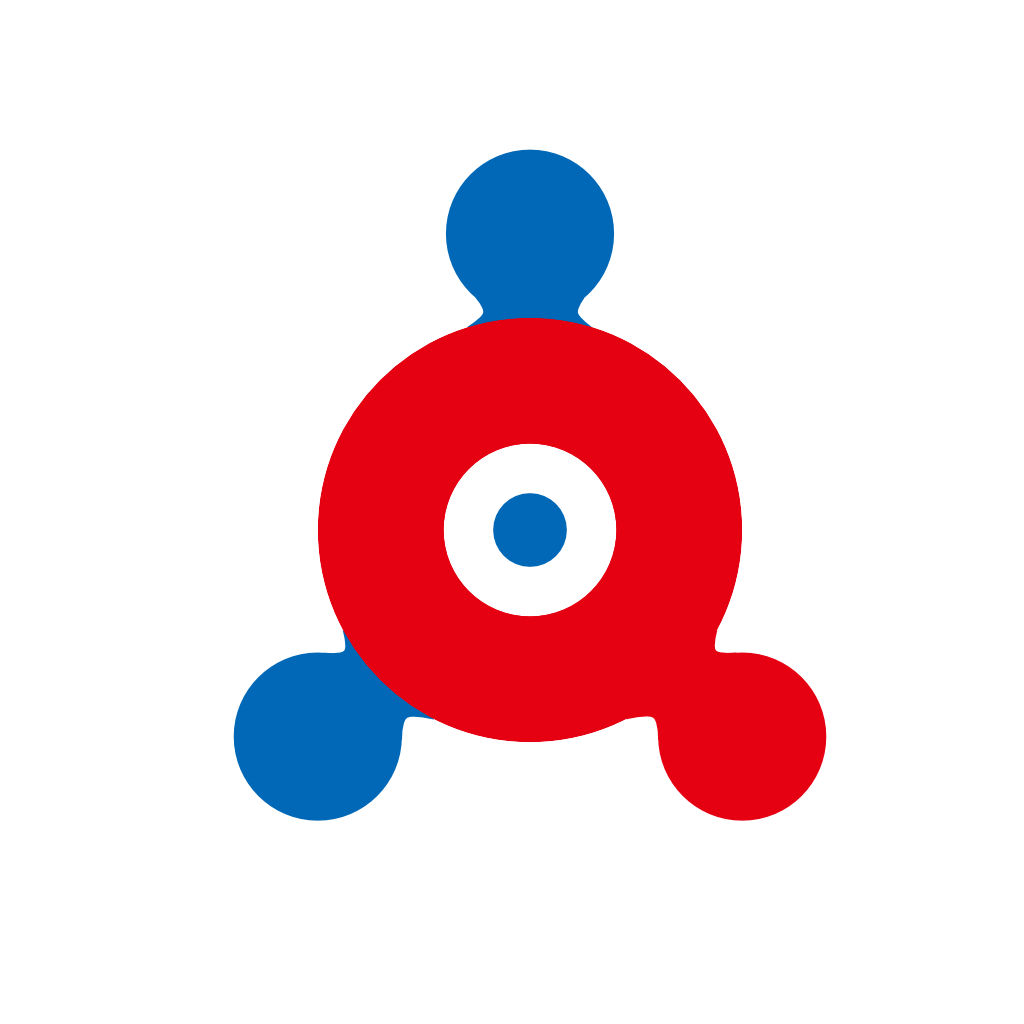
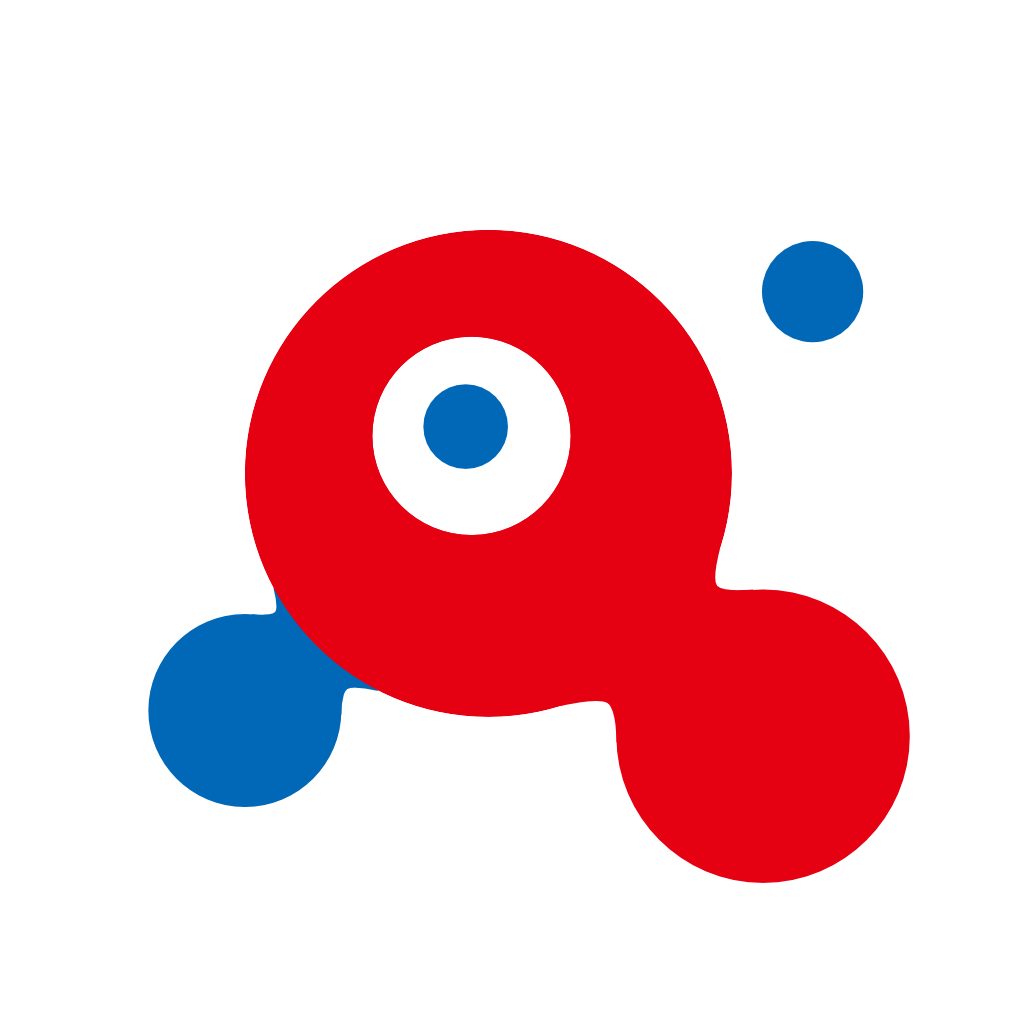
🛠 実装 ( WIP )

Changed region(s): [[0.125, 0.125, 0.9062, 0.875], [0.7188, 0.2188, 0.8438, 0.3438]]

diff --git a/index.html b/index.html
@@ -2,7 +2,7 @@
 <!--
     This file is genereted by build.js. このファイルは build.js によって生成されました。
     build options: ../build.json all
-    build at: Tue Jan 13 2026 20:47:00 GMT+0900 (日本標準時)
+    build at: Wed Jan 14 2026 10:20:20 GMT+0900 (日本標準時)
     repository: https://github.com/wraith13/myaku-myaku-sama/
 -->
 <!-- license:
@@ -329,8 +329,8 @@ button:focus
 </div>
 <script type="text/javascript">
 const build = {
-    at: "Tue Jan 13 2026 20:47:00 GMT+0900 (日本標準時)",
-    tick: 1768304820505
+    at: "Wed Jan 14 2026 10:20:20 GMT+0900 (日本標準時)",
+    tick: 1768353620084
 };
 const evilCommonjsConfig = {
     "log": {
@@ -2118,6 +2118,27 @@ define("script/model", ["require", "exports", "resource/config"], function (requ
             return total / samples;
         };
         ;
+        Model.addPoints = function (a, b) {
+            return ({
+                x: a.x + b.x,
+                y: a.y + b.y,
+            });
+        };
+        Model.subPoints = function (a, b) {
+            return ({
+                x: a.x - b.x,
+                y: a.y - b.y,
+            });
+        };
+        Model.mulPoint = function (a, b) {
+            return ({
+                x: a.x * b,
+                y: a.y * b,
+            });
+        };
+        Model.averagePoints = function (points) {
+            return Model.mulPoint(points.reduce(Model.addPoints, { x: 0, y: 0, }), 1 / points.length);
+        };
         ;
         ;
         ;
@@ -2798,6 +2819,9 @@ define("script/render", ["require", "exports", "script/model", "script/ui", "res
             if (data.fusionLimit < data.distance) {
                 return "none";
             }
+            if (data.wireLimit < data.distance) {
+                return "wired";
+            }
             if (data.sumRadius < data.distance) {
                 return "near";
             }
@@ -2806,7 +2830,8 @@ define("script/render", ["require", "exports", "script/model", "script/ui", "res
             }
             return "inclusion";
         };
-        var fusionLimitRate = 3;
+        var fusionLimitRate = 3.5;
+        var wireLimitRate = 0.7;
         var minCurveAngleRate = 1.0;
         var drawFusionPath = function (circles, color) {
             for (var i = 0; i < circles.length; i++) {
@@ -2817,11 +2842,12 @@ define("script/render", ["require", "exports", "script/model", "script/ui", "res
                     var minRadius = Math.min(a.radius, b.radius);
                     var maxRadius = Math.min(a.radius, b.radius);
                     var fusionLimit = sumRadius + Math.min(minRadius * fusionLimitRate, maxRadius);
+                    var wireLimit = sumRadius + (fusionLimit - sumRadius) * wireLimitRate;
                     var dx = b.x - a.x;
                     var dy = b.y - a.y;
                     var angle = Math.atan2(dy, dx);
                     var distance = Math.hypot(dx, dy);
-                    var fusionStatus = getFusionStatus({ sumRadius: sumRadius, minRadius: minRadius, fusionLimit: fusionLimit, distance: distance, });
+                    var fusionStatus = getFusionStatus({ sumRadius: sumRadius, minRadius: minRadius, wireLimit: wireLimit, fusionLimit: fusionLimit, distance: distance, });
                     if (hasFusionPath(fusionStatus)) {
                         var contactAngle = isContacted(fusionStatus) ? Math.acos(distance / sumRadius) : null;
                         var curveAngleRate = minCurveAngleRate *
@@ -2906,10 +2932,36 @@ define("script/render", ["require", "exports", "script/model", "script/ui", "res
                         context.beginPath();
                         // 上側ベジェ: tp1 -> cp -> tp3 (cpは中点+オフセットで曲げ)
                         context.moveTo(tp1.x, tp1.y);
-                        context.quadraticCurveTo(cp1.x, cp1.y, tp4.x, tp4.y); // またはbezierCurveToでcubic
-                        // 下側ベジェ: tp2 -> cp -> tp4
-                        context.lineTo(tp3.x, tp3.y);
-                        context.quadraticCurveTo(cp2.x, cp2.y, tp2.x, tp2.y);
+                        var wireLength = distance - wireLimit;
+                        if (0 < wireLength) // == "wired" === fusionStatus
+                         {
+                            var wireLengthRate = wireLength / Math.hypot(tp1.x - tp4.x, tp1.y - tp4.y);
+                            var wireWidthRate = 1 - (wireLength / (fusionLimit - wireLimit));
+                            var mp0a = model_2.Model.averagePoints([model_2.Model.mulPoint(model_2.Model.averagePoints([tp1, tp4]), wireWidthRate), model_2.Model.mulPoint(cp0, 2 - wireWidthRate)]);
+                            var mp1 = model_2.Model.addPoints(mp0a, model_2.Model.mulPoint(model_2.Model.subPoints(tp1, tp4), wireLengthRate * 0.5));
+                            var cxp1 = model_2.Model.addPoints(mp0a, model_2.Model.mulPoint(model_2.Model.subPoints(tp1, tp4), (2 - wireWidthRate) / 4));
+                            var cxp2 = model_2.Model.addPoints(mp0a, model_2.Model.mulPoint(model_2.Model.subPoints(tp4, tp1), (2 - wireWidthRate) / 4));
+                            var mp2 = model_2.Model.addPoints(mp0a, model_2.Model.mulPoint(model_2.Model.subPoints(tp4, tp1), wireLengthRate * 0.5));
+                            context.quadraticCurveTo(cxp1.x, cxp1.y, mp1.x, mp1.y);
+                            context.lineTo(mp2.x, mp2.y);
+                            context.quadraticCurveTo(cxp2.x, cxp2.y, tp4.x, tp4.y);
+                            context.lineTo(tp3.x, tp3.y);
+                            //const wireRate = wireLength / Math.hypot(tp3.x -tp2.x, tp3.y -tp2.y);
+                            var mp0b = model_2.Model.averagePoints([model_2.Model.mulPoint(model_2.Model.averagePoints([tp3, tp2]), wireWidthRate), model_2.Model.mulPoint(cp0, 2 - wireWidthRate)]);
+                            var mp3 = model_2.Model.addPoints(mp0b, model_2.Model.mulPoint(model_2.Model.subPoints(tp3, tp2), wireLengthRate * 0.5));
+                            var cxp3 = model_2.Model.addPoints(mp0b, model_2.Model.mulPoint(model_2.Model.subPoints(tp3, tp2), (2 - wireWidthRate) / 4));
+                            var cxp4 = model_2.Model.addPoints(mp0b, model_2.Model.mulPoint(model_2.Model.subPoints(tp2, tp3), (2 - wireWidthRate) / 4));
+                            var mp4 = model_2.Model.addPoints(mp0b, model_2.Model.mulPoint(model_2.Model.subPoints(tp2, tp3), wireLengthRate * 0.5));
+                            context.quadraticCurveTo(cxp3.x, cxp3.y, mp3.x, mp3.y);
+                            context.lineTo(mp4.x, mp4.y);
+                            context.quadraticCurveTo(cxp4.x, cxp4.y, tp2.x, tp2.y);
+                            //console.log({ wireRate, wireLength, distance, mp0a, mp1, cxp1, cxp2, mp2, mp0b, mp3, cxp3, cxp4, mp4, });
+                        }
+                        else {
+                            context.quadraticCurveTo(cp1.x, cp1.y, tp4.x, tp4.y);
+                            context.lineTo(tp3.x, tp3.y);
+                            context.quadraticCurveTo(cp2.x, cp2.y, tp2.x, tp2.y);
+                        }
                         context.lineTo(tp1.x, tp1.y);
                         context.fillStyle = color;
                         // connection.fillStyle = "#00000088";

diff --git a/script/index.js b/script/index.js
@@ -226,6 +226,27 @@ define("script/model", ["require", "exports", "resource/config"], function (requ
             return total / samples;
         };
         ;
+        Model.addPoints = function (a, b) {
+            return ({
+                x: a.x + b.x,
+                y: a.y + b.y,
+            });
+        };
+        Model.subPoints = function (a, b) {
+            return ({
+                x: a.x - b.x,
+                y: a.y - b.y,
+            });
+        };
+        Model.mulPoint = function (a, b) {
+            return ({
+                x: a.x * b,
+                y: a.y * b,
+            });
+        };
+        Model.averagePoints = function (points) {
+            return Model.mulPoint(points.reduce(Model.addPoints, { x: 0, y: 0, }), 1 / points.length);
+        };
         ;
         ;
         ;
@@ -906,6 +927,9 @@ define("script/render", ["require", "exports", "script/model", "script/ui", "res
             if (data.fusionLimit < data.distance) {
                 return "none";
             }
+            if (data.wireLimit < data.distance) {
+                return "wired";
+            }
             if (data.sumRadius < data.distance) {
                 return "near";
             }
@@ -914,7 +938,8 @@ define("script/render", ["require", "exports", "script/model", "script/ui", "res
             }
             return "inclusion";
         };
-        var fusionLimitRate = 3;
+        var fusionLimitRate = 3.5;
+        var wireLimitRate = 0.7;
         var minCurveAngleRate = 1.0;
         var drawFusionPath = function (circles, color) {
             for (var i = 0; i < circles.length; i++) {
@@ -925,11 +950,12 @@ define("script/render", ["require", "exports", "script/model", "script/ui", "res
                     var minRadius = Math.min(a.radius, b.radius);
                     var maxRadius = Math.min(a.radius, b.radius);
                     var fusionLimit = sumRadius + Math.min(minRadius * fusionLimitRate, maxRadius);
+                    var wireLimit = sumRadius + (fusionLimit - sumRadius) * wireLimitRate;
                     var dx = b.x - a.x;
                     var dy = b.y - a.y;
                     var angle = Math.atan2(dy, dx);
                     var distance = Math.hypot(dx, dy);
-                    var fusionStatus = getFusionStatus({ sumRadius: sumRadius, minRadius: minRadius, fusionLimit: fusionLimit, distance: distance, });
+                    var fusionStatus = getFusionStatus({ sumRadius: sumRadius, minRadius: minRadius, wireLimit: wireLimit, fusionLimit: fusionLimit, distance: distance, });
                     if (hasFusionPath(fusionStatus)) {
                         var contactAngle = isContacted(fusionStatus) ? Math.acos(distance / sumRadius) : null;
                         var curveAngleRate = minCurveAngleRate *
@@ -1014,10 +1040,36 @@ define("script/render", ["require", "exports", "script/model", "script/ui", "res
                         context.beginPath();
                         // 上側ベジェ: tp1 -> cp -> tp3 (cpは中点+オフセットで曲げ)
                         context.moveTo(tp1.x, tp1.y);
-                        context.quadraticCurveTo(cp1.x, cp1.y, tp4.x, tp4.y); // またはbezierCurveToでcubic
-                        // 下側ベジェ: tp2 -> cp -> tp4
-                        context.lineTo(tp3.x, tp3.y);
-                        context.quadraticCurveTo(cp2.x, cp2.y, tp2.x, tp2.y);
+                        var wireLength = distance - wireLimit;
+                        if (0 < wireLength) // == "wired" === fusionStatus
+                         {
+                            var wireLengthRate = wireLength / Math.hypot(tp1.x - tp4.x, tp1.y - tp4.y);
+                            var wireWidthRate = 1 - (wireLength / (fusionLimit - wireLimit));
+                            var mp0a = model_2.Model.averagePoints([model_2.Model.mulPoint(model_2.Model.averagePoints([tp1, tp4]), wireWidthRate), model_2.Model.mulPoint(cp0, 2 - wireWidthRate)]);
+                            var mp1 = model_2.Model.addPoints(mp0a, model_2.Model.mulPoint(model_2.Model.subPoints(tp1, tp4), wireLengthRate * 0.5));
+                            var cxp1 = model_2.Model.addPoints(mp0a, model_2.Model.mulPoint(model_2.Model.subPoints(tp1, tp4), (2 - wireWidthRate) / 4));
+                            var cxp2 = model_2.Model.addPoints(mp0a, model_2.Model.mulPoint(model_2.Model.subPoints(tp4, tp1), (2 - wireWidthRate) / 4));
+                            var mp2 = model_2.Model.addPoints(mp0a, model_2.Model.mulPoint(model_2.Model.subPoints(tp4, tp1), wireLengthRate * 0.5));
+                            context.quadraticCurveTo(cxp1.x, cxp1.y, mp1.x, mp1.y);
+                            context.lineTo(mp2.x, mp2.y);
+                            context.quadraticCurveTo(cxp2.x, cxp2.y, tp4.x, tp4.y);
+                            context.lineTo(tp3.x, tp3.y);
+                            //const wireRate = wireLength / Math.hypot(tp3.x -tp2.x, tp3.y -tp2.y);
+                            var mp0b = model_2.Model.averagePoints([model_2.Model.mulPoint(model_2.Model.averagePoints([tp3, tp2]), wireWidthRate), model_2.Model.mulPoint(cp0, 2 - wireWidthRate)]);
+                            var mp3 = model_2.Model.addPoints(mp0b, model_2.Model.mulPoint(model_2.Model.subPoints(tp3, tp2), wireLengthRate * 0.5));
+                            var cxp3 = model_2.Model.addPoints(mp0b, model_2.Model.mulPoint(model_2.Model.subPoints(tp3, tp2), (2 - wireWidthRate) / 4));
+                            var cxp4 = model_2.Model.addPoints(mp0b, model_2.Model.mulPoint(model_2.Model.subPoints(tp2, tp3), (2 - wireWidthRate) / 4));
+                            var mp4 = model_2.Model.addPoints(mp0b, model_2.Model.mulPoint(model_2.Model.subPoints(tp2, tp3), wireLengthRate * 0.5));
+                            context.quadraticCurveTo(cxp3.x, cxp3.y, mp3.x, mp3.y);
+                            context.lineTo(mp4.x, mp4.y);
+                            context.quadraticCurveTo(cxp4.x, cxp4.y, tp2.x, tp2.y);
+                            //console.log({ wireRate, wireLength, distance, mp0a, mp1, cxp1, cxp2, mp2, mp0b, mp3, cxp3, cxp4, mp4, });
+                        }
+                        else {
+                            context.quadraticCurveTo(cp1.x, cp1.y, tp4.x, tp4.y);
+                            context.lineTo(tp3.x, tp3.y);
+                            context.quadraticCurveTo(cp2.x, cp2.y, tp2.x, tp2.y);
+                        }
                         context.lineTo(tp1.x, tp1.y);
                         context.fillStyle = color;
                         // connection.fillStyle = "#00000088";

diff --git a/script/render.ts b/script/render.ts
@@ -117,7 +117,7 @@ export namespace Render
     //     y: window.innerHeight / 2,
     //     radius: Math.hypot(window.innerWidth, window.innerHeight) /2,
     // });
-    type FusionStatus = "none" | "near" | "overlap" | "inclusion";
+    type FusionStatus = "none" | "wired" | "near" | "overlap" | "inclusion";
     const hasFusionPath = (fusionStatus: FusionStatus) =>
         [ "none", "inclusion" ].indexOf(fusionStatus) < 0;
     const isContacted = (fusionStatus: FusionStatus) =>
@@ -126,6 +126,7 @@ export namespace Render
     {
         sumRadius: number;
         minRadius: number;
+        wireLimit: number;
         fusionLimit: number;
         //angle: number;
         distance: number;
@@ -135,6 +136,10 @@ export namespace Render
         if (data.fusionLimit < data.distance)
         {
             return "none";
+        }
+        if (data.wireLimit < data.distance)
+        {
+            return "wired";
         }
         if (data.sumRadius < data.distance)
         {
@@ -146,7 +151,8 @@ export namespace Render
         }
         return "inclusion";
     };
-    const fusionLimitRate = 3;
+    const fusionLimitRate = 3.5;
+    const wireLimitRate = 0.7;
     const minCurveAngleRate = 1.0;
     const drawFusionPath = (circles: Model.Circle[], color: string) =>
     {
@@ -160,11 +166,12 @@ export namespace Render
                 const minRadius = Math.min(a.radius, b.radius);
                 const maxRadius = Math.min(a.radius, b.radius);
                 const fusionLimit = sumRadius +Math.min(minRadius *fusionLimitRate, maxRadius);
+                const wireLimit = sumRadius +(fusionLimit -sumRadius) *wireLimitRate;
                 const dx = b.x - a.x;
                 const dy = b.y - a.y;
                 const angle = Math.atan2(dy, dx);
                 const distance = Math.hypot(dx, dy);
-                const fusionStatus = getFusionStatus({ sumRadius, minRadius, fusionLimit, distance, });
+                const fusionStatus = getFusionStatus({ sumRadius, minRadius, wireLimit, fusionLimit, distance, });
                 if (hasFusionPath(fusionStatus))
                 {
                     const contactAngle: number | null = isContacted(fusionStatus) ? Math.acos(distance / sumRadius): null;
@@ -236,7 +243,7 @@ export namespace Render
                     switch(fusionStatus)
                     {
                     case "near":
-                        cpRate = sumRadius +minRadius <= distance  ?
+                        cpRate = sumRadius +minRadius <= distance ?
                             -Math.min(1, (distance -(sumRadius +minRadius)) / (fusionLimit - (sumRadius +minRadius))):
                             Math.min(1, (sumRadius +minRadius -distance) / (minRadius *2));
                         break;
@@ -267,11 +274,40 @@ export namespace Render
 
                     // 上側ベジェ: tp1 -> cp -> tp3 (cpは中点+オフセットで曲げ)
                     context.moveTo(tp1.x, tp1.y);
-                    context.quadraticCurveTo(cp1.x, cp1.y, tp4.x, tp4.y);  // またはbezierCurveToでcubic
+                    const wireLength = distance -wireLimit;
+                    if (0 < wireLength) // == "wired" === fusionStatus
+                    {
+                        const wireLengthRate = wireLength / Math.hypot(tp1.x -tp4.x, tp1.y -tp4.y);
+                        const wireWidthRate = 1 - (wireLength /(fusionLimit -wireLimit));
+                        const mp0a: Model.Point = Model.averagePoints([Model.mulPoint(Model.averagePoints([tp1, tp4]), wireWidthRate), Model.mulPoint(cp0, 2 -wireWidthRate)]);
+                        const mp1: Model.Point = Model.addPoints(mp0a, Model.mulPoint(Model.subPoints(tp1, tp4), wireLengthRate *0.5));
+                        const cxp1: Model.Point = Model.addPoints(mp0a, Model.mulPoint(Model.subPoints(tp1, tp4), (2 -wireWidthRate) /4));
+                        const cxp2: Model.Point = Model.addPoints(mp0a, Model.mulPoint(Model.subPoints(tp4, tp1), (2 -wireWidthRate) /4));
+                        const mp2: Model.Point = Model.addPoints(mp0a, Model.mulPoint(Model.subPoints(tp4, tp1), wireLengthRate *0.5));
+                        context.quadraticCurveTo(cxp1.x, cxp1.y, mp1.x, mp1.y);
+                        context.lineTo(mp2.x, mp2.y);
+                        context.quadraticCurveTo(cxp2.x, cxp2.y, tp4.x, tp4.y);
 
-                    // 下側ベジェ: tp2 -> cp -> tp4
-                    context.lineTo(tp3.x, tp3.y);
-                    context.quadraticCurveTo(cp2.x, cp2.y, tp2.x, tp2.y);
+                        context.lineTo(tp3.x, tp3.y);
+
+                        //const wireRate = wireLength / Math.hypot(tp3.x -tp2.x, tp3.y -tp2.y);
+                        const mp0b: Model.Point = Model.averagePoints([Model.mulPoint(Model.averagePoints([tp3, tp2]), wireWidthRate), Model.mulPoint(cp0, 2 -wireWidthRate)]);
+                        const mp3: Model.Point = Model.addPoints(mp0b, Model.mulPoint(Model.subPoints(tp3, tp2), wireLengthRate *0.5));
+                        const cxp3: Model.Point = Model.addPoints(mp0b, Model.mulPoint(Model.subPoints(tp3, tp2), (2 -wireWidthRate) /4));
+                        const cxp4: Model.Point = Model.addPoints(mp0b, Model.mulPoint(Model.subPoints(tp2, tp3), (2 -wireWidthRate) /4));
+                        const mp4: Model.Point = Model.addPoints(mp0b, Model.mulPoint(Model.subPoints(tp2, tp3), wireLengthRate *0.5));
+                        context.quadraticCurveTo(cxp3.x, cxp3.y, mp3.x, mp3.y);
+                        context.lineTo(mp4.x, mp4.y);
+                        context.quadraticCurveTo(cxp4.x, cxp4.y, tp2.x, tp2.y);
+                        //console.log({ wireRate, wireLength, distance, mp0a, mp1, cxp1, cxp2, mp2, mp0b, mp3, cxp3, cxp4, mp4, });
+                    }
+                    else
+                    {
+                        context.quadraticCurveTo(cp1.x, cp1.y, tp4.x, tp4.y);
+                        context.lineTo(tp3.x, tp3.y);
+                        context.quadraticCurveTo(cp2.x, cp2.y, tp2.x, tp2.y);
+                    }
+
                     context.lineTo(tp1.x, tp1.y);
 
                     context.fillStyle = color;

diff --git a/script/model.ts b/script/model.ts
@@ -16,11 +16,23 @@ export namespace Model
         x: number;
         y: number;
     };
-    // const addPoints = (a: Point, b: Point): Point =>
-    // ({
-    //     x: a.x + b.x,
-    //     y: a.y + b.y,
-    // });
+    export const addPoints = (a: Point, b: Point): Point =>
+    ({
+        x: a.x + b.x,
+        y: a.y + b.y,
+    });
+    export const subPoints = (a: Point, b: Point): Point =>
+    ({
+        x: a.x - b.x,
+        y: a.y - b.y,
+    });
+    export const mulPoint = (a: Point, b: number): Point =>
+    ({
+        x: a.x *b,
+        y: a.y *b,
+    });
+    export const averagePoints = (points: Point[]): Point =>
+        mulPoint(points.reduce(addPoints, { x: 0, y: 0, }), 1 / points.length);
     export interface Animation
     {
         period: number;

diff --git a/script/index.d.ts b/script/index.d.ts
@@ -14,6 +14,10 @@ declare module "script/model" {
             x: number;
             y: number;
         }
+        const addPoints: (a: Point, b: Point) => Point;
+        const subPoints: (a: Point, b: Point) => Point;
+        const mulPoint: (a: Point, b: number) => Point;
+        const averagePoints: (points: Point[]) => Point;
         interface Animation {
             period: number;
             phase: number;

diff --git a/sw.js b/sw.js
@@ -1,4 +1,4 @@
-const CACHE_NAME = "web-media-player-20260113204700";
+const CACHE_NAME = "web-media-player-20260114102020";
 const ASSETS = // embeded from ./resouce/assets.json
 [
     "./",
